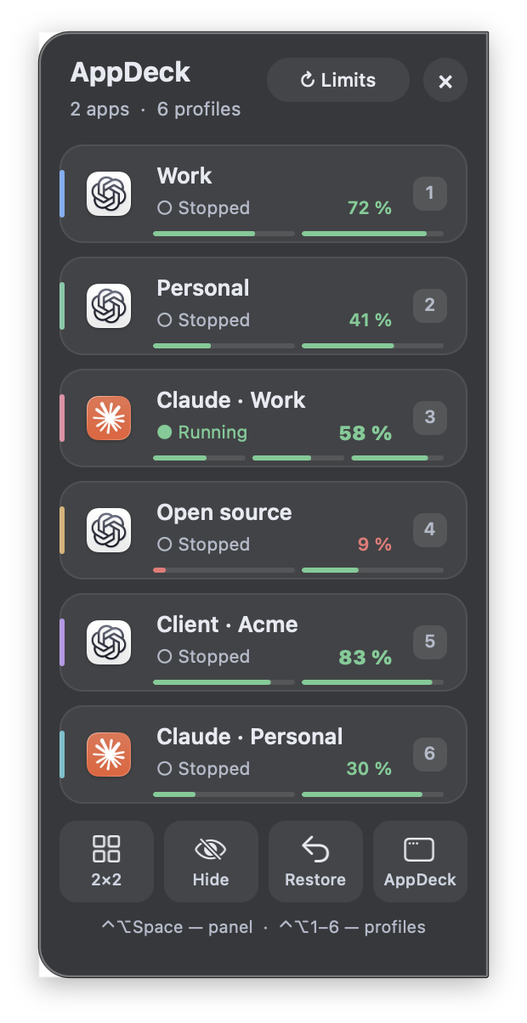
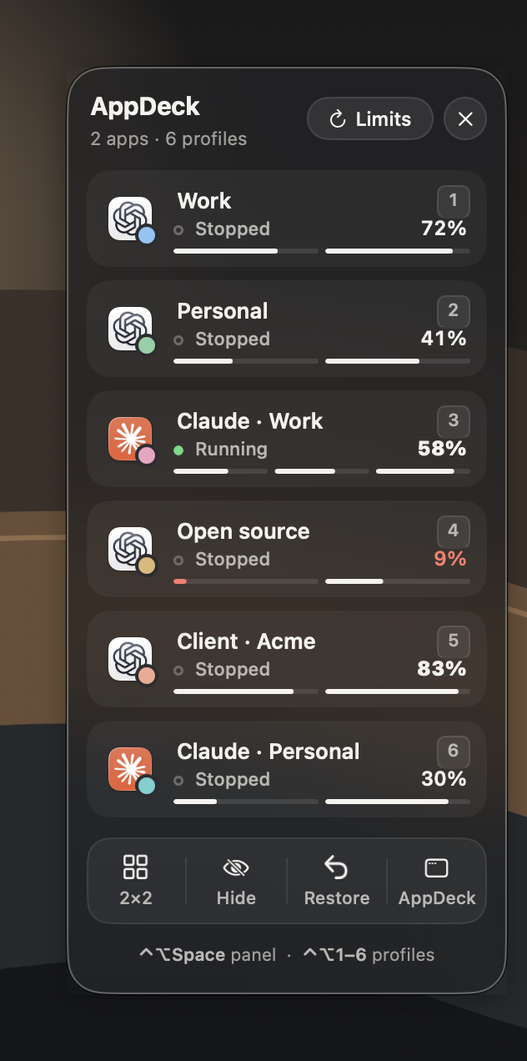
AppDeck 0.11.0

diff --git a/src/main.cpp b/src/main.cpp
@@ -526,7 +526,7 @@ void removeAppAction(Obj,Sel,Obj){Obj a=currentApp();if(!a)return;
  send<void>(apps,"removeObjectIdenticalTo:",a);drop(selected);selected=count(apps)?keep(get(at(apps,0),"id")):nullptr;save();buildUI();buildMenus();
 }
 void pageAction(Obj,Sel,Obj sender){page=send<Int>(sender,"tag");buildUI();}
-void showWindowAction(Obj,Sel,Obj){setEdgeVisible(false);send<bool>(app,"setActivationPolicy:",(Int)0);send<void>(window,"makeKeyAndOrderFront:",(Obj)nullptr);send<void>(app,"activateIgnoringOtherApps:",true);}
+void showWindowAction(Obj,Sel,Obj){setEdgeVisible(false);send<bool>(app,"setActivationPolicy:",(Int)0);send<void>(window,"makeKeyAndOrderFront:",(Obj)nullptr);send<bool>(window,"makeFirstResponder:",(Obj)nullptr);send<void>(app,"activateIgnoringOtherApps:",true);}
 void launchAllAction(Obj,Sel,Obj){Obj ps=visibleProfiles();if(count(ps)>1&&!confirm(T("Launch all profiles of this group?","Запустить все профили этой группы?"),T("Each instance uses its own memory. Do the first sign-ins one after another, not in several windows at once.","Каждый экземпляр расходует память отдельно. Первую авторизацию выполняйте последовательно, не в нескольких окнах одновременно."),T("Launch","Запустить")))return;
  for(UInt i=0;i<count(ps);++i)if(isMaster(at(ps,i))&&!launch(at(ps,i),false))return;
  for(UInt i=0;i<count(ps);++i)if(!isMaster(at(ps,i))&&!launch(at(ps,i),false))break;refresh();}
@@ -1041,7 +1041,7 @@ int main(){
  if(previewMode){renderPreview(str(renderDir));return 0;}
  // Centre only on the very first run: the autosaved frame must survive relaunches.
  if(!send(send(cls("NSUserDefaults"),"standardUserDefaults"),"stringForKey:",str("NSWindow Frame AppDeckMainWindow")))send<void>(window,"center");
- send<void>(window,"makeKeyAndOrderFront:",(Obj)nullptr);
+ send<void>(window,"makeKeyAndOrderFront:",(Obj)nullptr);send<bool>(window,"makeFirstResponder:",(Obj)nullptr); // nothing focused until the user tabs
  timer=keep(send(cls("NSTimer"),"scheduledTimerWithTimeInterval:target:selector:userInfo:repeats:",2.0,controller,sel("timerTick:"),(Obj)nullptr,true));
  send<void>(app,"run");if(timer){send<void>(timer,"invalidate");drop(timer);}if(lockFd>=0)close(lockFd);return 0;
 }

diff --git a/docs/ARCHITECTURE.md b/docs/ARCHITECTURE.md
@@ -20,13 +20,13 @@ AppDeck is one C++17 translation unit (`src/main.cpp`) that includes its impleme
 
 C++17, public Objective-C runtime bridge, AppKit views. No Electron, Qt, WebView, screen-capture pipeline, child-process window embedding, private WindowServer APIs, app-bundle patching, telemetry or network client. The managed Codex processes remain independent ordinary macOS applications.
 
-`main.cpp` owns the app registry, schema-2 persistence, NSWorkspace launch adapter and main UI. All controls share one button system (`styledButton`): borderless layer-backed NSButton subclasses whose style name lives in the view identifier, with hover through an always-active tracking area; only the dock subclass accepts the first mouse click. Implementation headers are included in its anonymous namespace, so the whole app is one translation unit with no Xcode project. `mac.hpp` declares the small public ABI bridge (including x86_64 NSRect stret handling) instead of relying on Objective-C++.
+`main.cpp` owns the app registry, schema-2 persistence, NSWorkspace launch adapter and main UI. All controls share one button system (`styledButton`): borderless layer-backed NSButton subclasses whose style name (`primary`, `prominent`, `secondary`, `danger`, `overlay`) lives in the view identifier, drawn as capsules, with hover through an always-active tracking area; only the dock subclass accepts the first mouse click. The visual tokens ("Graphite glass") sit next to it: `ink`/`muted`/`faint`/`dim` text colours, `fill(alpha)` glass surfaces, `liveColor`/`warnColor`/`dangerColor` for state and six identity colours for the profile badges; colour is used for nothing else. Pages share one content column (264 pt from the left, 32 pt from the right edge) and one header, body and footer grid. Implementation headers are included in its anonymous namespace, so the whole app is one translation unit with no Xcode project. `mac.hpp` declares the small public ABI bridge (including x86_64 NSRect stret handling) instead of relying on Objective-C++.
 
 ## Side panel
 
-`edge_panel.hpp`: nonactivating NSPanel subclass, cannot become key/main; public floating level; joins Spaces and is fullscreen auxiliary. NSVisualEffectView HUD material supplies the behind-window blur; a dark shade view between the blur and the content keeps text contrast independent of what is behind the panel. The dock is ONE column of profile rows (accent bar, icon, name, state, ⌃⌥ number) in an NSScrollView (overlay scroller), followed by an action strip. It lists the profiles of EVERY registered app (`dockProfiles()`): the order of the `profiles` array in state.plist, which is the user's order — the same list drives Control-Option-1…8, the menu-bar menu and, filtered per app, the cards of the main window. `deck::edgeRows` gives one visible row per profile, at most six, shrunk until the dock leaves 24 pt of the screen free; the rest scrolls (`edgeScrollRange`), and the scroll offset survives rebuilds while the dock stays open (opening starts at the top). The dock has no "new profile" row (profiles are created in the main window). Rows are `AppDeckEdgeRowButton`s: a press that moves less than 4 pt is a click; beyond that the row is lifted and follows the pointer inside the list, the other rows glide to `edgeShiftedSlot`, the list auto-scrolls near its edges (`edgeAutoScroll`) and the drop is applied after the event (`edgeDropped:` → `moveProfileInList`, save, rebuild). The row menu offers the same moves for keyboard/VoiceOver users. While a drag runs the dock is never rebuilt. A CAGradientLayer masks the list; an edge shades only while it cuts through a row (`edgeCut`), so the list is clean at rest at its top and end; its orientation is taken from Core Animation (`contentsAreFlipped`). Up to 0.8 the dock grouped profiles by app; the first 0.9 load adopts that order once (`profileOrder` flag), new profiles join their app's profiles and duplicates follow their source. Rows represent profile states, not captured window pixels. Main window orderOut + NSApplicationActivationPolicyAccessory hides the manager and Dock identity; returning restores regular activation policy.
+`edge_panel.hpp`: nonactivating NSPanel subclass, cannot become key/main; public floating level; joins Spaces and is fullscreen auxiliary. NSVisualEffectView HUD material supplies the behind-window blur; a dark shade view between the blur and the content keeps text contrast independent of what is behind the panel. The dock is ONE column of profile rows (icon with the profile's colour badge, name, status light, limit, ⌃⌥ number) in an NSScrollView (overlay scroller), followed by a toolbar. It lists the profiles of EVERY registered app (`dockProfiles()`): the order of the `profiles` array in state.plist, which is the user's order — the same list drives Control-Option-1…8, the menu-bar menu and, filtered per app, the cards of the main window. `deck::edgeRows` gives one visible row per profile, at most six, shrunk until the dock leaves 24 pt of the screen free; the rest scrolls (`edgeScrollRange`), and the scroll offset survives rebuilds while the dock stays open (opening starts at the top). The dock has no "new profile" row (profiles are created in the main window). Rows are `AppDeckEdgeRowButton`s: a press that moves less than 4 pt is a click; beyond that the row is lifted and follows the pointer inside the list, the other rows glide to `edgeShiftedSlot`, the list auto-scrolls near its edges (`edgeAutoScroll`) and the drop is applied after the event (`edgeDropped:` → `moveProfileInList`, save, rebuild). The row menu offers the same moves for keyboard/VoiceOver users. While a drag runs the dock is never rebuilt. A CAGradientLayer masks the list; an edge shades only while it cuts through a row (`edgeCut`), so the list is clean at rest at its top and end; its orientation is taken from Core Animation (`contentsAreFlipped`). Up to 0.8 the dock grouped profiles by app; the first 0.9 load adopts that order once (`profileOrder` flag), new profiles join their app's profiles and duplicates follow their source. Rows represent profile states, not captured window pixels. Main window orderOut + NSApplicationActivationPolicyAccessory hides the manager and Dock identity; returning restores regular activation policy.
 
-Geometry is pure (`edge_policy.hpp`, covered by `edge_test`): `edgeBounds` places the dock flush with the right border of the target screen's visibleFrame, vertically centred, never outside it; only the two left corners are rounded (`CALayer.maskedCorners`). `edgeFrame` is a slide-out: the window's width grows along a quintic smootherstep while its right side stays on the border, so the window never reaches onto a neighbouring display; content keeps full width and is pinned to the moving left side. Height follows the visible rows and is recomputed on rebuild; there is no pager.
+Geometry is pure (`edge_policy.hpp`, covered by `edge_test`): `edgeBounds` floats the dock `edgeMargin` (12 pt) off the right border of the target screen's visibleFrame, vertically centred, never outside it (on a screen too narrow for the margin it returns to the border); all four corners are rounded. `edgeFrame` unfolds it: the window's width grows along a quintic smootherstep while its right side stays put, so the window never reaches onto a neighbouring display; content keeps full width and is pinned to the moving left side. Height follows the visible rows and is recomputed on rebuild; there is no pager.
 
 A common-run-loop NSTimer runs only while animating, using monotonic process uptime. Hide reverses from current progress. Accessibility preferences reduce motion/transparency. An NSApplication display-parameters notification repositions the panel after display changes.
 

diff --git a/docs/TESTING.md b/docs/TESTING.md
@@ -27,14 +27,14 @@ No check signs in to an account, sends a model turn or opens a real profile's da
 
 Why the self-test replays events inside the app: on macOS 26 mouse events posted to another process (`CGEventPostToPid`) are dropped, and posting to the system event stream would move the user's pointer. The self-test therefore covers everything from `-[NSApplication sendEvent:]` on; a real pointer or trackpad gesture is part of the manual checklist.
 
-## Status of 0.10.0
+## Status of 0.11.0
 
 Verified on macOS 26.2, Apple Silicon, Apple clang 17:
 
-- `APPDECK_GUI_SELFTEST=1 make verify` passed: 584 localized string pairs; core 273, edge 485 416, workspace filter 68, usage 1 469, project sync 44 and automation sync 80 assertions; native project import/update/delete and 188 group-sync assertions against Codex's `app-server`; API and Accessibility smoke tests; a signed-out `get_usage` exchange with Claude Code; the side panel self-test (17 checks) on arm64 and x86_64 in English and Russian.
-- Accessibility checks in a sandbox: the row menu offers Move up / Move down / Move to top with impossible moves disabled; the card menu offers Move up / Move down; the order and the migration flag are written to `state.plist`; the list scroll bar works through Accessibility; with `-AppleShowScrollBars Always` the scroller stays an overlay.
-- Window captures of the side panel at rest (top and end of the list: no shade), with rows cut by both edges (soft edges) and during a drag with auto-scroll.
-- The upgrade of real data from 0.8 kept the side panel order; only the order of the profile array and the `profileOrder` flag changed.
+- `APPDECK_GUI_SELFTEST=1 make verify` passed: 602 localized string pairs; core 273, edge 485 417, workspace filter 68, usage 1 469, project sync 44 and automation sync 80 assertions; the static bundle check for both slices; native project import/update/delete and 188 group-sync assertions against Codex's `app-server`; API and Accessibility smoke tests; a signed-out `get_usage` exchange with Claude Code; the side panel self-test (17 checks) on arm64 and x86_64 in English and Russian.
+- The redesign was checked against the design canvas in the running app with demo data (`tools/make_demo_data.py`), over a neutral wallpaper: every main-window page in English and the Claude group in Russian, the side panel in both languages, labels at the default window size with nothing truncated, the traffic lights inside the sidebar pane, no control focused when the window opens.
+- `APPDECK_RENDER_DIR` renders of all pages and the side panel in both languages.
+- The new icon: every size of `AppDeck.icns` rendered at its own pixel size; 16 and 32 px decode correctly through AppKit.
 
 Not verified yet:
 
@@ -56,7 +56,7 @@ Use `APPDECK_DATA_ROOT` and a disposable test project. Back up `~/.codex` and ex
 
 ### Side panel
 
-- **Side panel** hides the main window and the Dock icon; the menu bar item stays. The panel is flush with the right border of the visible frame, vertically centred, left corners rounded; at most six rows are visible and the rest scrolls.
+- **Side panel** hides the main window and the Dock icon; the menu bar item stays. The panel floats 12 pt off the right border of the visible frame, vertically centred, all corners rounded; at most six rows are visible and the rest scrolls.
 - Slide-out and reverse close; toggling quickly during the animation leaves no invisible window intercepting clicks. Reduce Motion gives a fade, Reduce Transparency an opaque background.
 - The first click on a row works while another app is active, without making the panel key; hover highlights rows and tiles.
 - Secondary text stays legible over a bright and over a dark window behind the panel.
@@ -72,7 +72,7 @@ Use `APPDECK_DATA_ROOT` and a disposable test project. Back up `~/.codex` and ex
 - With permission: minimized windows, dialogs, closed windows, full screen, an app whose minimum width exceeds half the screen.
 - **2×2** with one to four windows gives equal cells inside the visible frame when the apps allow it; **Restore** returns the same surviving windows to their rectangles and never addresses a relaunched process as the old window.
 - **Hide** never sends terminate or kill. A click raises a window once; nothing is kept on top.
-- A window closed with the red button comes back from **Window**, a panel row or ⌃⌥N; another instance of the same bundle is never raised instead.
+- A window closed with the red button comes back from **Show window**, a panel row or ⌃⌥N; another instance of the same bundle is never raised instead.
 
 ### Primary Codex and copies
 

diff --git a/docs/USER_GUIDE.md b/docs/USER_GUIDE.md
@@ -24,11 +24,11 @@ AppDeck runs several accounts of the same desktop app side by side on macOS — 
 ![The main window: four Codex profiles with their accounts and usage limits](images/main-window.png)
 
 1. **Add an app.** Click **＋ Add app** in the sidebar and choose an installed app. AppDeck detects the adapter: Codex (`ChatGPT.app`), Claude Desktop, VS Code / Cursor, Chrome / Brave / Edge / Chromium, or an experimental mode for other Electron apps. The original `.app` is never copied or modified.
-2. **Create profiles.** Each profile is an ordinary macOS window of that app with its own private data folder and therefore its own sign-in. Use **＋ Profile** for more.
+2. **Create profiles.** Each profile is an ordinary macOS window of that app with its own private data folder and therefore its own sign-in. Use **New profile** for more.
 3. **Launch and sign in.** Click **Launch** on a card and sign in inside the app window. Sign in to one new account at a time.
 4. **Switch.** Click a card, press **⌘1–9** while AppDeck is active, or open the [side panel](#the-side-panel) with **⌃⌥Space** from anywhere.
 
-A running profile's card offers **Close** (a normal quit request — never a force kill), **Restart** (quit, then launch again once the process has really exited) and **Window** (bring it forward). If a window was closed with the red button, AppDeck reopens it: it sends the same *reopen* event the Dock icon sends, addressed to that very process.
+A running profile's card offers **Show window** (bring it forward) and two round buttons: **Restart** ↻ (quit, then launch again once the process has really exited) and **Close** ✕ (a normal quit request — never a force kill). A stopped card has **Launch**, the profile folder and, after a failed start, a warning button that explains what happened. Every round button names itself in its tooltip. If a window was closed with the red button, AppDeck reopens it: it sends the same *reopen* event the Dock icon sends, addressed to that very process.
 
 ## What is separate and what is shared
 
@@ -118,7 +118,7 @@ Consent dialogs (limits, shared history) cannot be accepted with Return; Escape 
 
 ## Claude Desktop
 
-Add `Claude.app` with **＋ Add app**; the Claude Desktop adapter is preselected. The checkbox **Add the existing sign-in (current window) as the primary profile** creates **Primary · current**: the ordinary Claude with its usual data, attached or launched normally. Every other profile is a new, empty sign-in.
+Add `Claude.app` with **Add app**; the Claude Desktop adapter is preselected. The checkbox **Add the existing sign-in (current window) as the primary profile** creates **Primary · current**: the ordinary Claude with its usual data, attached or launched normally. Every other profile is a new, empty sign-in.
 
 | Data | Behaviour |
 |---|---|
@@ -144,7 +144,7 @@ Add `Claude.app` with **＋ Add app**; the Claude Desktop adapter is preselected
 
 <p align="center"><img src="images/side-panel.png" width="300" alt="The side panel with six profiles of Codex and Claude"></p>
 
-Click **◧ Side panel** at the bottom of the sidebar or press **⌃⌥Space** in any app. The main window and AppDeck's Dock icon step aside, and a slim translucent panel slides out of the right edge of the screen under the pointer: one column with the profiles of every app. It shows each profile's colour, icon, name, state, limit and place number — not a picture of its window, so no screen recording permission is needed.
+Click **Side panel** at the bottom of the sidebar or press **⌃⌥Space** in any app. The main window and AppDeck's Dock icon step aside, and a slim glass panel unfolds at the right edge of the screen under the pointer: one column with the profiles of every app. It shows each profile's icon with its colour badge, name, status light, limit and place number — not a picture of its window, so no screen recording permission is needed.
 
 At most **six rows** are visible (fewer on a short screen); further profiles scroll. The panel always opens at the top and without any shading; a soft edge appears only while a row is cut by the top or bottom edge during scrolling.
 

diff --git a/README.md b/README.md
@@ -22,9 +22,10 @@ AppDeck is a small native macOS app for people who work in the same desktop app 
 
 - **Separate sign-ins, shared work.** Each profile gets its own private data folder, so every window stays signed in to its own account. For Codex you can share settings, chat history, projects and automations between the accounts — without copying a single database or token.
 - **Usage limits at a glance.** The weekly, 5-hour and per-model windows of every Codex and Claude account with their reset times, asked from the apps' own tools. The account with the most headroom stands out.
-- **Side panel.** Press <kbd>⌃</kbd><kbd>⌥</kbd><kbd>Space</kbd> anywhere: a slim panel slides out of the screen edge. Click a row or press <kbd>⌃</kbd><kbd>⌥</kbd><kbd>1</kbd>…<kbd>8</kbd> to launch or switch, drag rows into your own order, scroll when you have more than six profiles.
+- **Side panel.** Press <kbd>⌃</kbd><kbd>⌥</kbd><kbd>Space</kbd> anywhere: a slim glass panel unfolds at the right edge of the screen. Click a row or press <kbd>⌃</kbd><kbd>⌥</kbd><kbd>1</kbd>…<kbd>8</kbd> to launch or switch, drag rows into your own order, scroll when you have more than six profiles.
 - **Window tools.** Arrange four windows in a 2×2 grid and put them back, hide every profile at once, reopen a window that was closed with the red button.
 - **Native and light.** One C++17 translation unit on public AppKit and Objective-C runtime APIs. No Electron, no WebView, no network client, no telemetry. A universal binary for macOS 13 and later.
+- **Graphite glass.** A dark translucent interface in the manner of macOS 26: one bone-white ink, capsule controls of one height, colour only for state and for each profile's badge.
 - **English and Russian.** The interface follows your macOS language.
 
 ## Supported apps
@@ -56,7 +57,7 @@ AppDeck is signed ad hoc, not with a Developer ID, and is not notarized. On firs
 ## Quick start
 
 1. **＋ Add app** in the sidebar and choose `ChatGPT.app`, `Claude.app` or another supported app.
-2. Create a profile per account with **＋ Profile**. For Codex, **Shared settings → Connect Codex…** keeps your current Codex as the primary profile and lets the others share its workspace.
+2. Create a profile per account with **New profile**. For Codex, **Shared settings → Connect Codex…** keeps your current Codex as the primary profile and lets the others share its workspace.
 3. **Launch** a profile and sign in inside its window. Sign in to one new account at a time.
 4. Turn on **Account limits…** to see what every account has left, and press <kbd>⌃</kbd><kbd>⌥</kbd><kbd>Space</kbd> to switch from anywhere.
 

diff --git a/CHANGELOG.md b/CHANGELOG.md
@@ -2,6 +2,18 @@
 
 All notable changes to AppDeck. Verification details for the current release are in [docs/TESTING.md](docs/TESTING.md).
 
+## 0.11.0
+
+### Changed
+- New visual design, "Graphite glass": the main window is one behind-window blur with a floating sidebar pane; one bone-white ink, capsule controls of one height, colour only for state (running, low, critical) and for each profile's badge. Every page shares one content column and one header, body and footer grid.
+- Profile cards: the app icon carries the profile's colour badge; plan and ⌘-number sit beside the title; the facts line up with the limit columns; the main action is a glass capsule (**Launch** or **Show window**), the others are round icon buttons with tooltips (Folder, Restart, Close, More). A failed start shows a warning button instead of a text link.
+- Limits: remaining time windows are drawn as thin capsule meters in neutral ink, turning amber below 25 % and red below 10 %.
+- Shared settings, Projects and About are grouped lists with equal trailing buttons; page actions sit on the title line or in the footer.
+- The side panel floats 12 pt off the screen edge with all corners rounded; rows show a status light and the limit on the status line; the four tools form one toolbar.
+- New app icon: the side panel on graphite glass.
+- The profile colours are sky, sage, sand, clay, rose and teal (clay replaces violet).
+- The minimum window width is 1120 pt so that Russian labels fit.
+
 ## 0.10.0
 
 ### Added
